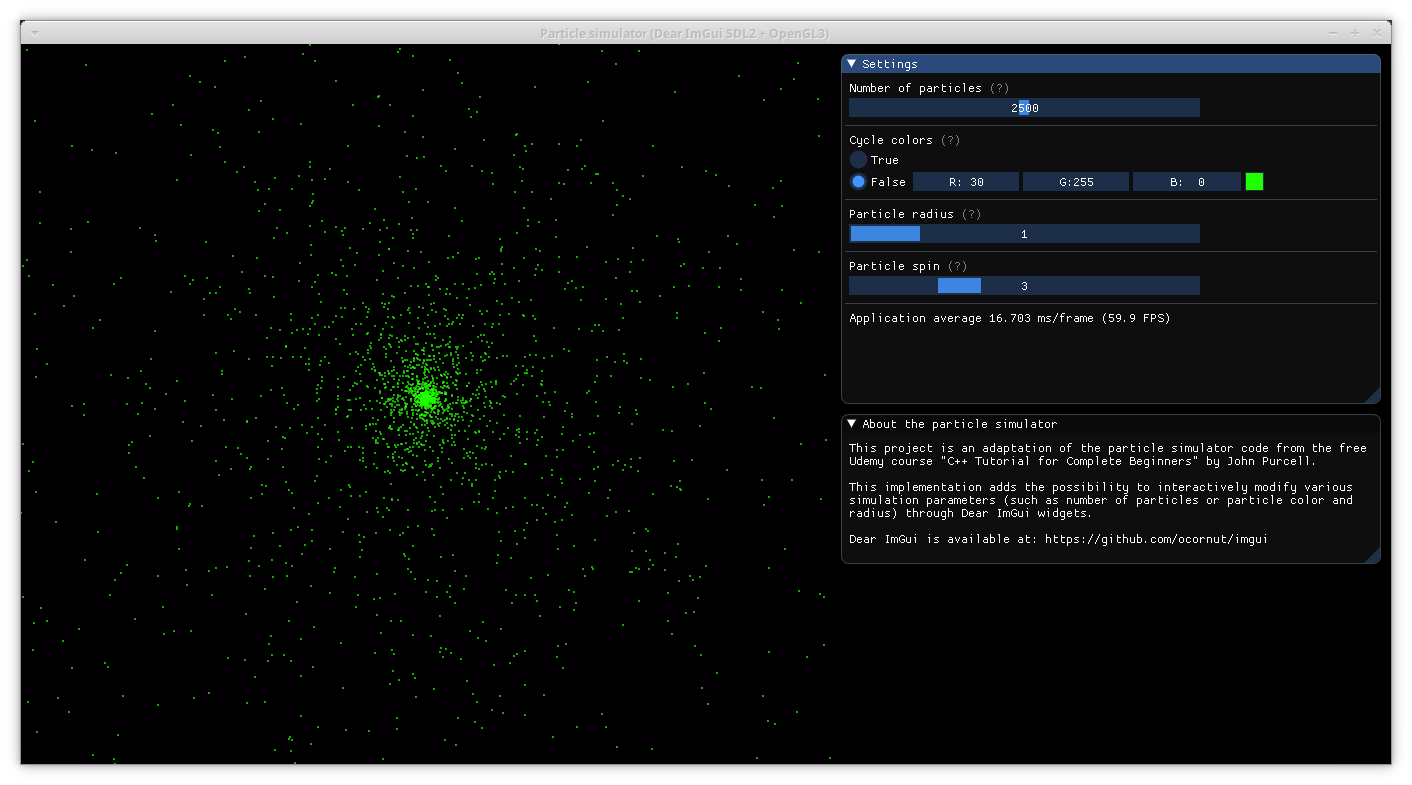
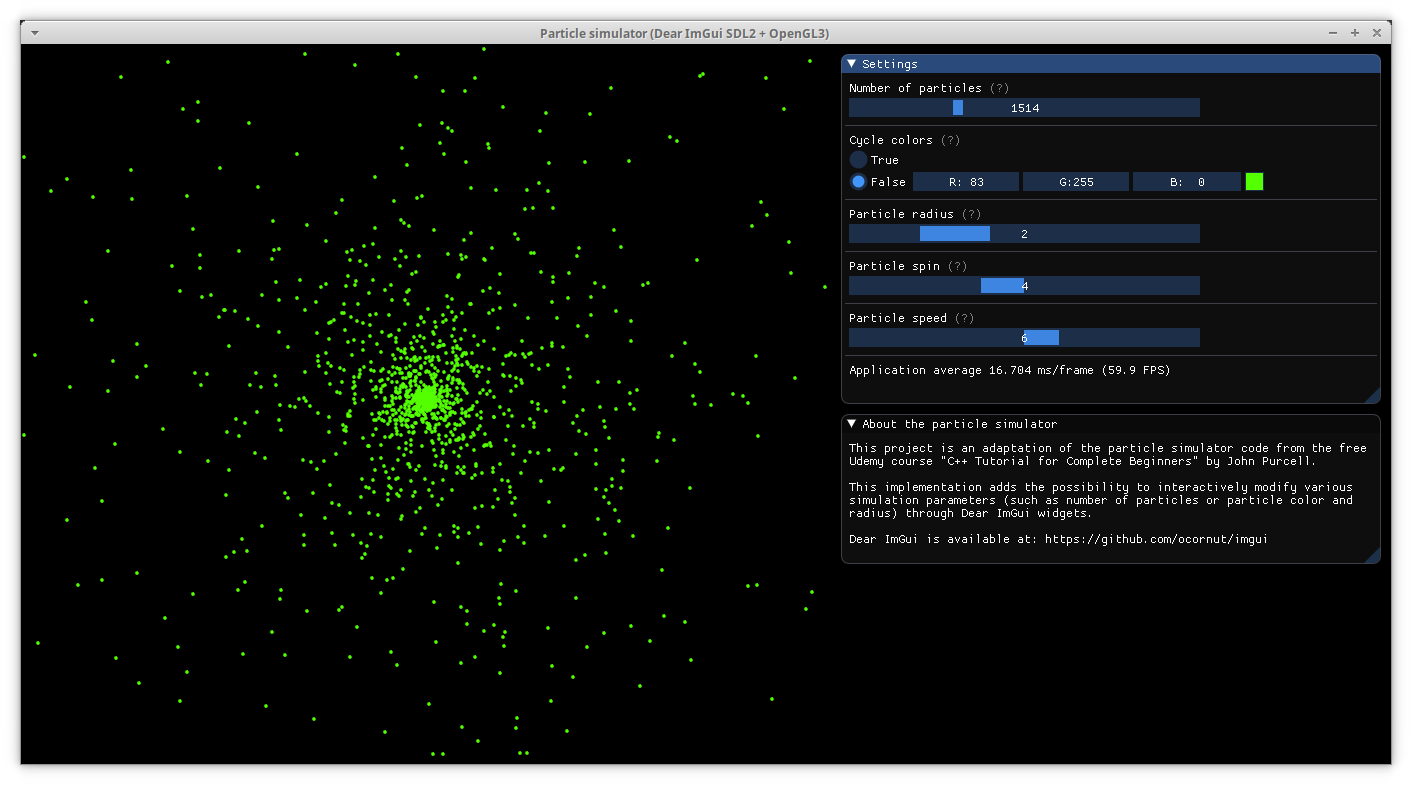
Add particle speed widget

diff --git a/SimulatorSettings.cpp b/SimulatorSettings.cpp
@@ -7,13 +7,14 @@
 
 namespace particlesim {
 
-SimulatorSettings::SimulatorSettings() : SimulatorSettings(2500, 1, 0.0003f, 1) {}
+SimulatorSettings::SimulatorSettings() : SimulatorSettings(2500, 1, 0.0003f, 0.5f, 1) {}
 
 SimulatorSettings::SimulatorSettings(
-        int nParticles, int particleRadius, float particleSpin, int blurRadius) :
+int nParticles, int particleRadius, float particleSpin, float particleSpeed, int blurRadius) :
         nParticles(nParticles),
         particleRadius(particleRadius),
         particleSpin(particleSpin),
+        particleSpeed(particleSpeed),
         blurRadius(blurRadius) {
     cycleColors = true;
     particleColor = ImVec4(0.0f, 0.0f, 0.0f, 1.0f);
@@ -79,6 +80,15 @@ void SimulatorSettings::show() {
                    "to the explosion center?\n");
     ImGui::SliderInt("##Particle spin", &spin, 1, 8);
     particleSpin = spin * 0.0001f;
+    ImGui::Spacing(); ImGui::Separator(); ImGui::Spacing();
+
+    // Particle speed
+    static int speed = 5;
+    ImGui::Text("Particle speed");
+    ImGui::SameLine();
+    showHelpMarker("How fast should exploding particles diffuse?\n");
+    ImGui::SliderInt("##Particle speed", &speed, 1, 10);
+    particleSpeed = speed * 0.1f;
     ImGui::Spacing(); ImGui::Separator(); ImGui::Spacing();
 
     // Window footer

diff --git a/Particle.cpp b/Particle.cpp
@@ -26,14 +26,14 @@ void Particle::init() {
     m_speed *= m_speed;
 }
 
-void Particle::update(int interval, float spin) {
+void Particle::update(int interval, float spin, float speed) {
     m_direction += interval * spin;
 
     double xspeed = m_speed * cos(m_direction);
     double yspeed = m_speed * sin(m_direction);
 
-    m_x += xspeed * interval;
-    m_y += yspeed * interval;
+    m_x += xspeed * interval * speed;
+    m_y += yspeed * interval * speed;
 
     if (m_x < -1 || m_x > 1 || m_y < -1 || m_y > 1) {
         init();

diff --git a/SimulatorSettings.h b/SimulatorSettings.h
@@ -21,10 +21,16 @@ public:
     ImVec4 particleColor;
     int particleRadius;
     float particleSpin;
+    float particleSpeed;
     int blurRadius;
 public:
     SimulatorSettings();
-    SimulatorSettings(int nParticles, int particleRadius, float particleSpin, int blurRadius);
+    SimulatorSettings(
+            int nParticles,
+            int particleRadius,
+            float particleSpin,
+            float particleSpeed,
+            int blurRadius);
     void show();
     void showHelpMarker(const char* desc);
 };

diff --git a/Swarm.cpp b/Swarm.cpp
@@ -27,7 +27,7 @@ void Swarm::update(int elapsed, SimulatorSettings settings) {
     int interval = elapsed - lastTime;
     lastTime = elapsed;
     for (Particle* particle : m_pParticles) {
-        particle->update(interval, settings.particleSpin);
+        particle->update(interval, settings.particleSpin, settings.particleSpeed);
     }
 
 

diff --git a/Particle.h b/Particle.h
@@ -21,7 +21,7 @@ private:
 public:
     Particle();
     virtual ~Particle();
-    void update(int interval, float spin);
+    void update(int interval, float spin, float speed);
     void draw(ImVec4 color, int particleRadius);
 };
 

diff --git a/README.md b/README.md
@@ -11,7 +11,7 @@ This project is an adaptation of the particle simulator code from the free Udemy
   * `make`
   * `g++`
   * `libsdl2-dev`
-  * `libGL`
+  * OpenGL 3
   
 ## Building the particle simulator
 
@@ -44,10 +44,9 @@ Run the particle simulator from the `build` directory:
 
 ## Motivation
 
-It is purely personal: the particle simulator doesn't "do" anything useful, but it allowed me to dive (again) into C++, use graphical frameworks and test out a C++ library for GUI creation.
+The motivation to build this project is purely personal: although the particle simulator does not "do" anything useful *per se*, it allowed me to dive (again) into C++, to reflect object oriented design, to use graphical frameworks, and to test out a C++ library for GUI creation.
 
 ## TODO
-  * Add widget for particle speed
   * Add widget for color cycling speed 
   * Add box blur effect
   * Add widget for blur radius
